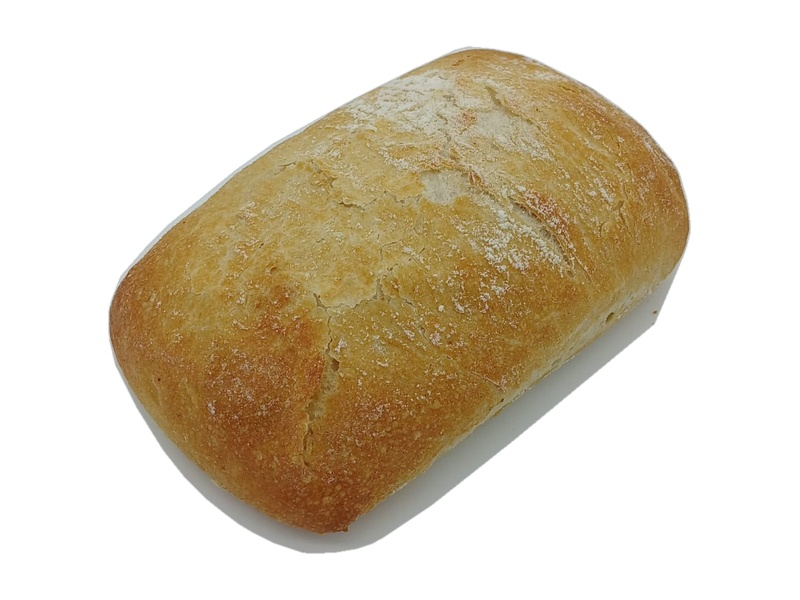
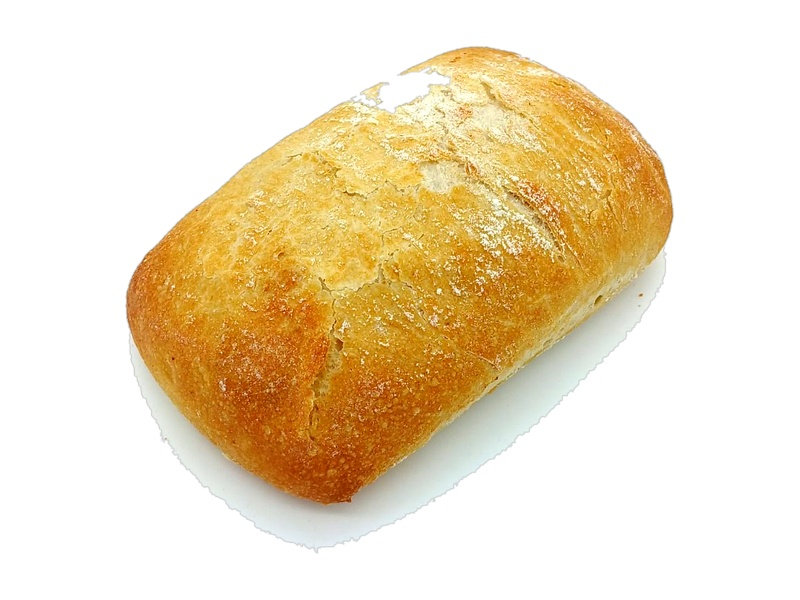
fix(products): extract single Baton Coco-Crunch without tray, increase brightness and warmth on bread photos to remove dark shadows

diff --git a/src/b2b.html b/src/b2b.html
@@ -1006,8 +1006,8 @@
     <script src="https://cdnjs.cloudflare.com/ajax/libs/gsap/3.12.5/ScrollTrigger.min.js"></script>
     
     <!-- Główne skrypty -->
-    <script src="js/products-data.js?v=23"></script>
-    <script src="js/app.js?v=48"></script>
+    <script src="js/products-data.js?v=24"></script>
+    <script src="js/app.js?v=49"></script>
     
     <!-- Custom B2B Interactive Scripts -->
     <script>

diff --git a/src/category.html b/src/category.html
@@ -330,7 +330,7 @@
     <script src="https://cdnjs.cloudflare.com/ajax/libs/gsap/3.12.5/ScrollTrigger.min.js"></script>
     
     <!-- Główne skrypty -->
-    <script src="js/products-data.js?v=23"></script>
-    <script src="js/app.js?v=48"></script>
+    <script src="js/products-data.js?v=24"></script>
+    <script src="js/app.js?v=49"></script>
 </body>
 </html>

diff --git a/src/index.html b/src/index.html
@@ -517,7 +517,7 @@
     <script src="https://cdnjs.cloudflare.com/ajax/libs/gsap/3.12.5/ScrollTrigger.min.js"></script>
     
     <!-- Główne skrypty -->
-    <script src="js/products-data.js?v=23"></script>
-    <script src="js/app.js?v=48"></script>
+    <script src="js/products-data.js?v=24"></script>
+    <script src="js/app.js?v=49"></script>
 </body>
 </html>
